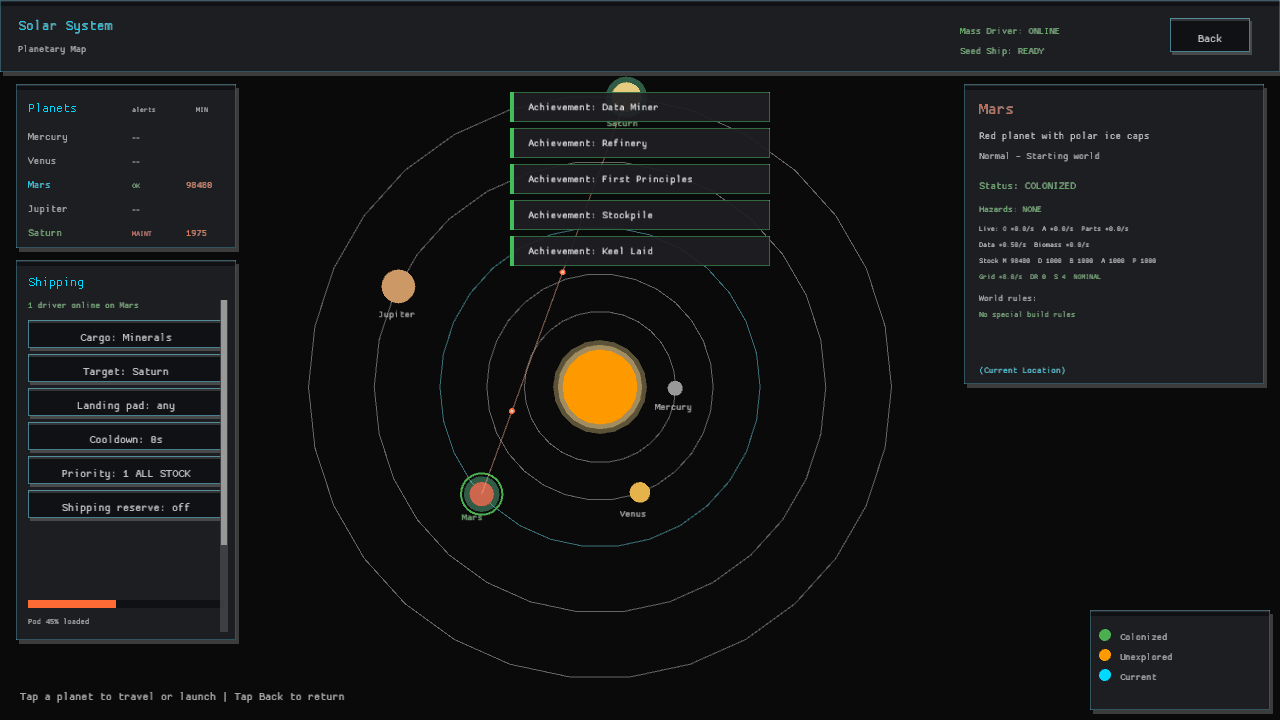
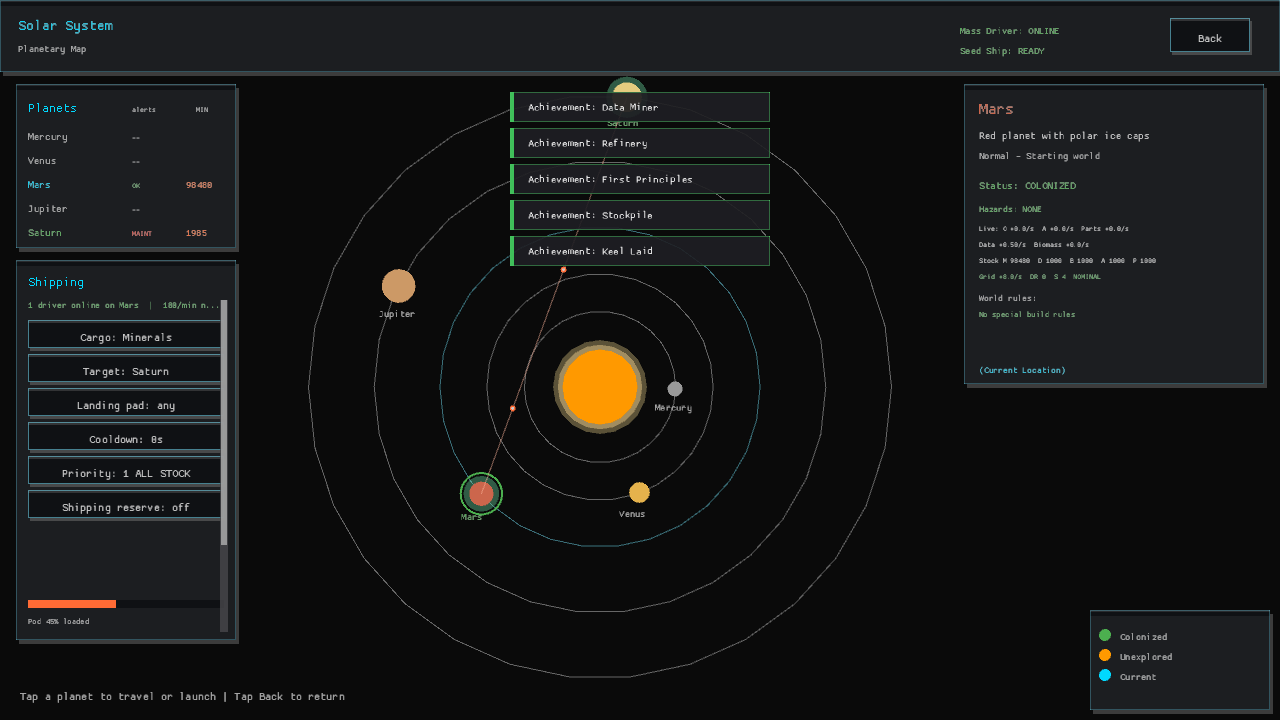
The drivers tell the swarm what the route can carry (Mass Driver throughput guidance, GDD 4)
Mass Driver schedules now expose their nominal cargo throughput in units per minute, calculated from powered drivers, pod capacity, load rate, and cooldown. The rate appears beside local and remote standing-order status and stays readable in narrow Shipping panels. Regression tests cover cooldown effects and offline drivers, while the README and refreshed captures document the planning signal.

diff --git a/src/state/shipping/tests.rs b/src/state/shipping/tests.rs
@@ -174,6 +174,51 @@ fn ore_is_carried_to_a_driver_that_has_somewhere_to_throw_it() {
 }
 
 #[test]
+fn export_rate_explains_the_effect_of_a_shipping_cooldown() {
+    let mut campaign = two_world_campaign();
+    driver_on_current(&mut campaign);
+    set_route(&mut campaign, VENUS, ResourceType::Minerals);
+
+    assert!((campaign.current().export_rate_per_minute() - 180.0).abs() < 0.001);
+
+    campaign
+        .current_mut()
+        .export
+        .as_mut()
+        .unwrap()
+        .schedule_seconds = 10.0;
+    assert!((campaign.current().export_rate_per_minute() - 120.0).abs() < 0.001);
+}
+
+#[test]
+fn export_rate_is_zero_without_a_route_or_online_driver() {
+    let mut campaign = two_world_campaign();
+    assert_eq!(campaign.current().export_rate_per_minute(), 0.0);
+
+    driver_on_current(&mut campaign);
+    set_route(&mut campaign, VENUS, ResourceType::Minerals);
+    let driver = campaign
+        .current()
+        .grid
+        .find_buildings(BuildingType::MassDriver)
+        .first()
+        .copied()
+        .unwrap();
+    campaign
+        .current_mut()
+        .grid
+        .get_mut(driver)
+        .unwrap()
+        .building
+        .as_mut()
+        .unwrap()
+        .standby = true;
+    campaign.current_mut().grid.update_power_grid();
+
+    assert_eq!(campaign.current().export_rate_per_minute(), 0.0);
+}
+
+#[test]
 fn changing_a_route_does_not_relabel_typed_cargo_in_the_hopper() {
     let mut campaign = two_world_campaign();
     let driver = driver_on_current(&mut campaign);

diff --git a/src/state/shipping.rs b/src/state/shipping.rs
@@ -198,6 +198,29 @@ impl PlanetState {
             / capacity
     }
 
+    /// The nominal cargo rate for this world's standing order, in units per
+    /// minute. Each powered driver fills its own pod; the schedule is a pause
+    /// after a full pod leaves, so it lowers the shared route rate without
+    /// changing the load speed. This is a planning number, not a promise that
+    /// the source has cargo or that the destination has a free pad.
+    pub fn export_rate_per_minute(&self) -> f32 {
+        let Some(order) = self.export else {
+            return 0.0;
+        };
+        let drivers = self.mass_drivers_online() as f32;
+        let load_rate = self.config.mass_driver.load_rate;
+        let pod_capacity = self.config.mass_driver.pod_capacity;
+        if drivers <= 0.0 || load_rate <= 0.0 || pod_capacity <= 0.0 {
+            return 0.0;
+        }
+        let fill_seconds = pod_capacity / load_rate;
+        let cycle_seconds = fill_seconds + order.schedule_seconds.max(0.0);
+        if cycle_seconds <= 0.0 || !cycle_seconds.is_finite() {
+            return 0.0;
+        }
+        (drivers * pod_capacity / cycle_seconds * 60.0).max(0.0)
+    }
+
     /// What one driver is doing, for the inspector: its route and its pod.
     pub fn export_summary(&self, pos: GridPos) -> String {
         let Some(order) = self.export else {

diff --git a/src/screens/interplanetary_view/shipping_panel.rs b/src/screens/interplanetary_view/shipping_panel.rs
@@ -3,7 +3,7 @@
 use crate::state::{cargo_name, Shipment};
 use crate::ui::{draw_button_sized, draw_panel, Colors};
 use macroquad::prelude::*;
-use macroquad_toolkit::ui::{draw_ui_text, is_fully_visible, ScrollArea};
+use macroquad_toolkit::ui::{draw_ui_text, is_fully_visible, truncate_text_to_width, ScrollArea};
 
 use super::status::{driver_operation_status, landing_pad_operation_status};
 use super::{InterplanetaryAction, MapView};
@@ -86,8 +86,19 @@ pub(super) fn draw(
     } else {
         Colors::TEXT_DIM
     };
+    let rate = view
+        .export_rates
+        .get(view.editing_world)
+        .copied()
+        .unwrap_or(0.0);
+    let status_line = if edited_order.is_some() {
+        format!("{status}  |  {:.0}/min", rate)
+    } else {
+        format!("{status}  |  no route")
+    };
+    let status_line = truncate_text_to_width(&status_line, (w - 24.0).max(40.0), 11.0);
     draw_scrolled_text(
-        &status,
+        &status_line,
         x + 12.0,
         offset_y + 48.0,
         11.0,

diff --git a/src/main/update.rs b/src/main/update.rs
@@ -286,6 +286,12 @@ impl Game {
                 .map(|planet| planet.pod_fraction())
                 .unwrap_or(0.0)
         });
+        let export_rates: [f32; state::PLANET_COUNT] = std::array::from_fn(|index| {
+            self.campaign
+                .planet(index)
+                .map(|planet| planet.export_rate_per_minute())
+                .unwrap_or(0.0)
+        });
         let pending_pods: [usize; state::PLANET_COUNT] =
             std::array::from_fn(|index| self.campaign.pending_pod_count(index));
         let pod_caps: [usize; state::PLANET_COUNT] =
@@ -315,6 +321,7 @@ impl Game {
             pads: &pads,
             pads_built: &pads_built,
             pod_fractions: &pod_fractions,
+            export_rates: &export_rates,
             shipments: campaign.shipments(),
             orders: &orders,
             pending_pods: &pending_pods,

diff --git a/src/screens/interplanetary_view.rs b/src/screens/interplanetary_view.rs
@@ -101,6 +101,8 @@ pub struct MapView<'a> {
     pub pads_built: &'a [usize],
     /// The fullest live outbound pod on each world, for remote order edits.
     pub pod_fractions: &'a [f32],
+    /// Nominal throughput of each world's standing order, in units per minute.
+    pub export_rates: &'a [f32],
     pub shipments: &'a [Shipment],
     pub orders: &'a [Option<ExportOrder>],
     pub pending_pods: &'a [usize],

diff --git a/README.md b/README.md
@@ -88,7 +88,8 @@ diversion control visible, and opens the neural network directly when a stage
   screen separates Worlds
   and Shipping into touch-sized tabs, with the freight controls scrollable below.
   Shipping distinguishes a missing Landing Pad from a built but offline one, so
-  held pods explain whether the destination needs construction or power.
+  held pods explain whether the destination needs construction or power; the
+  standing order also shows its nominal cargo throughput per minute.
   The title and Settings screens also switch to single-column phone layouts so
 the command stack, display toggles, audio controls, and pause-key control
 remain on-screen.
